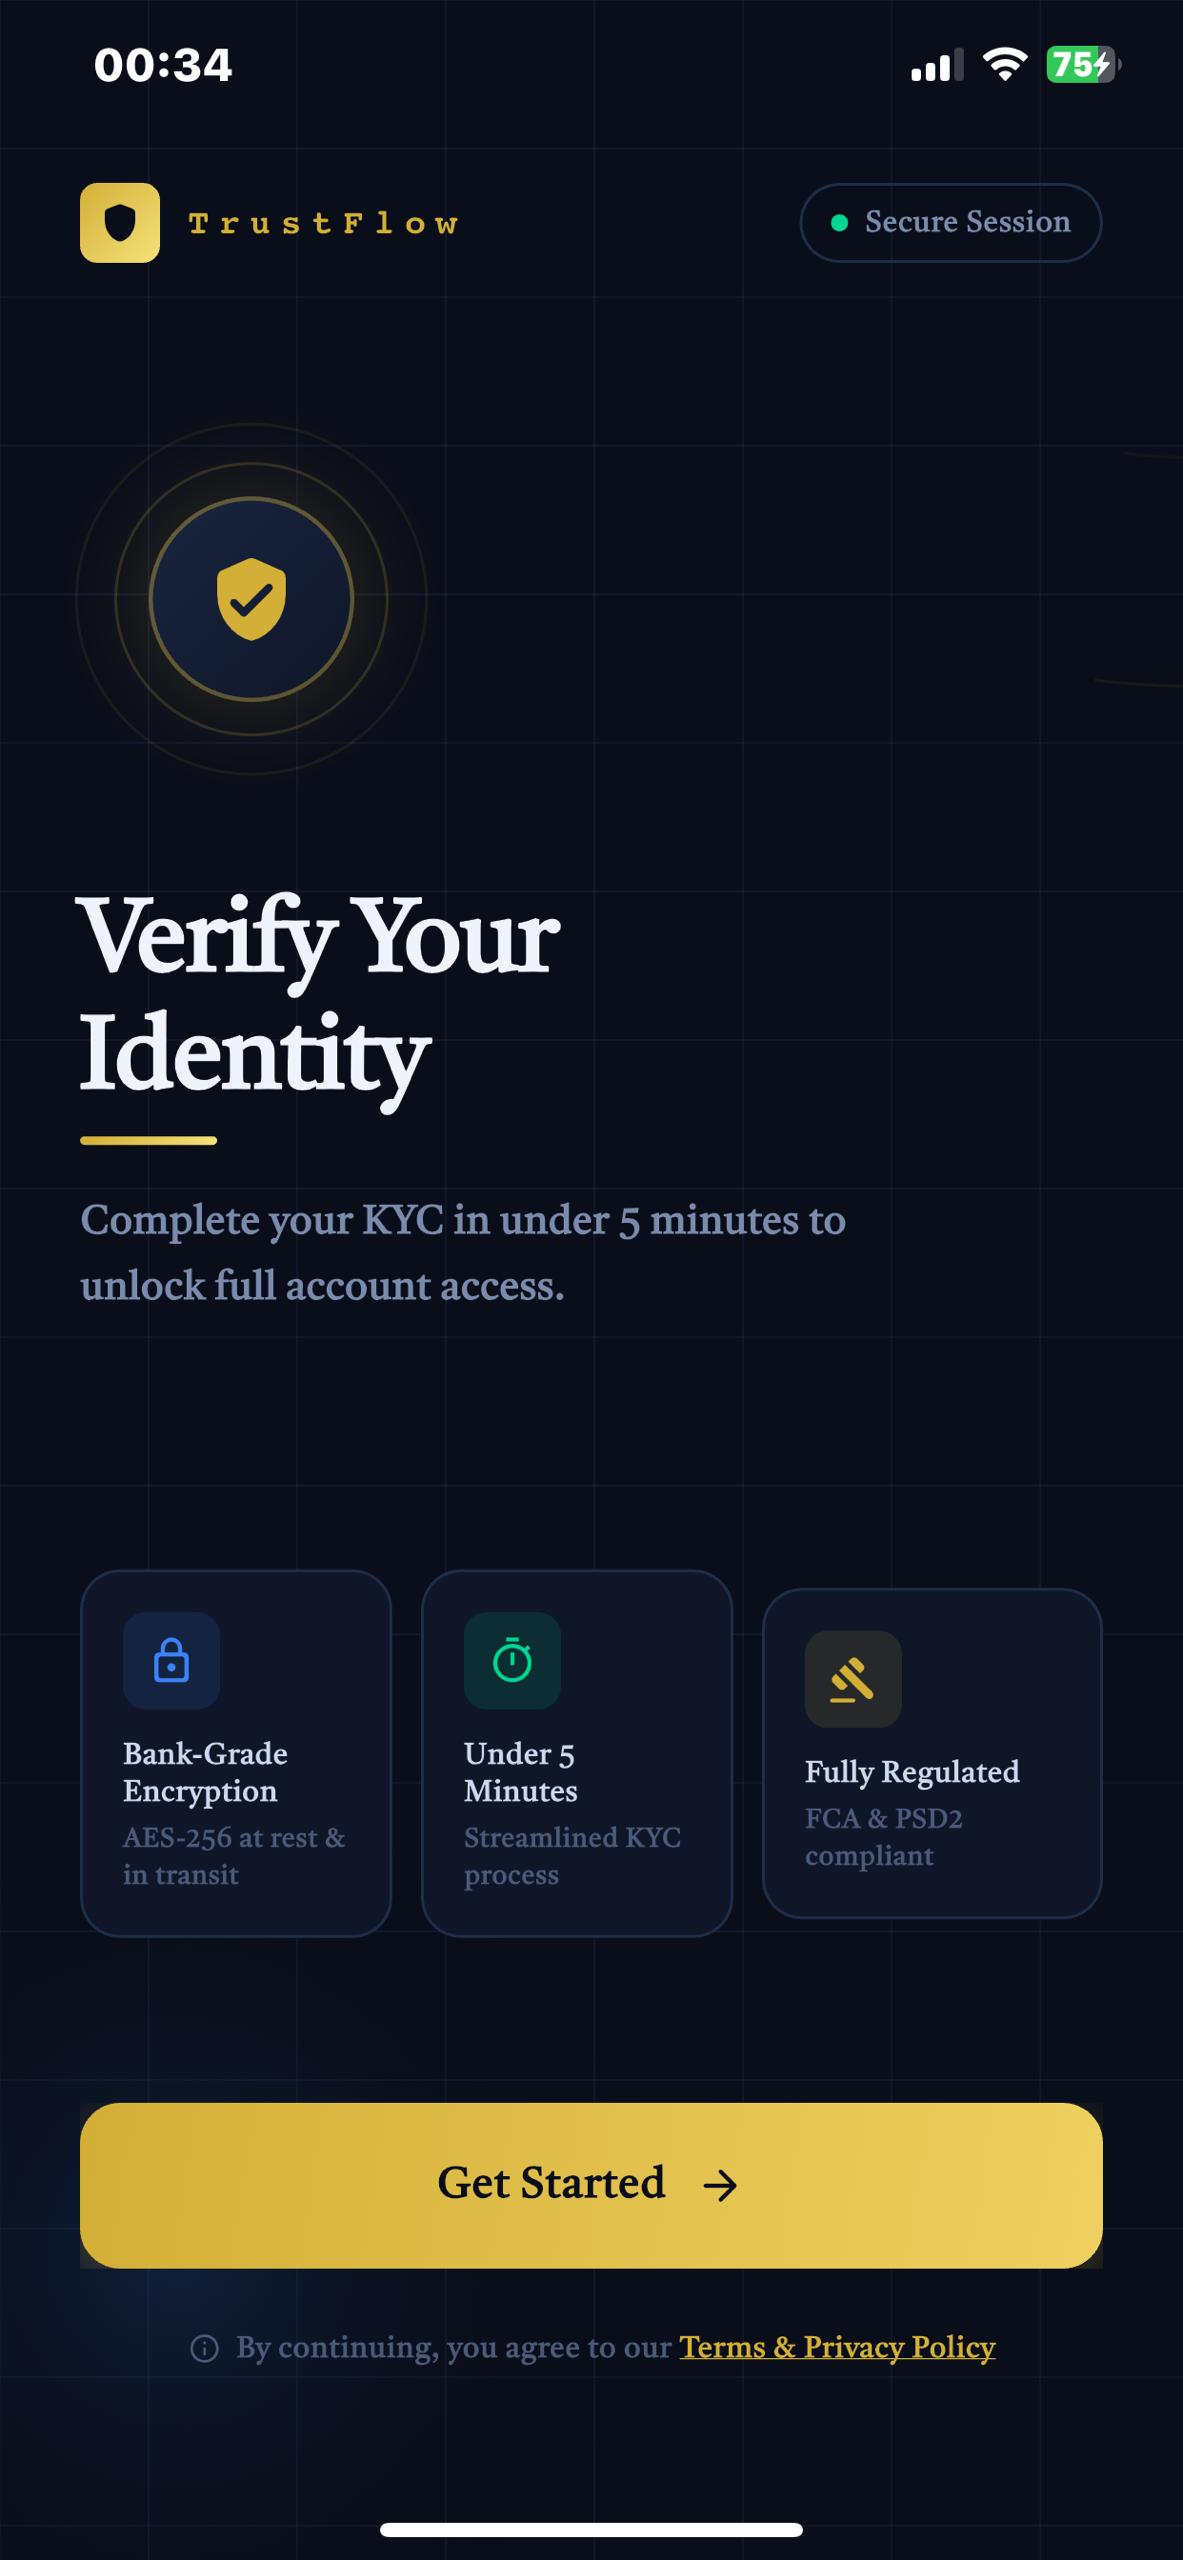
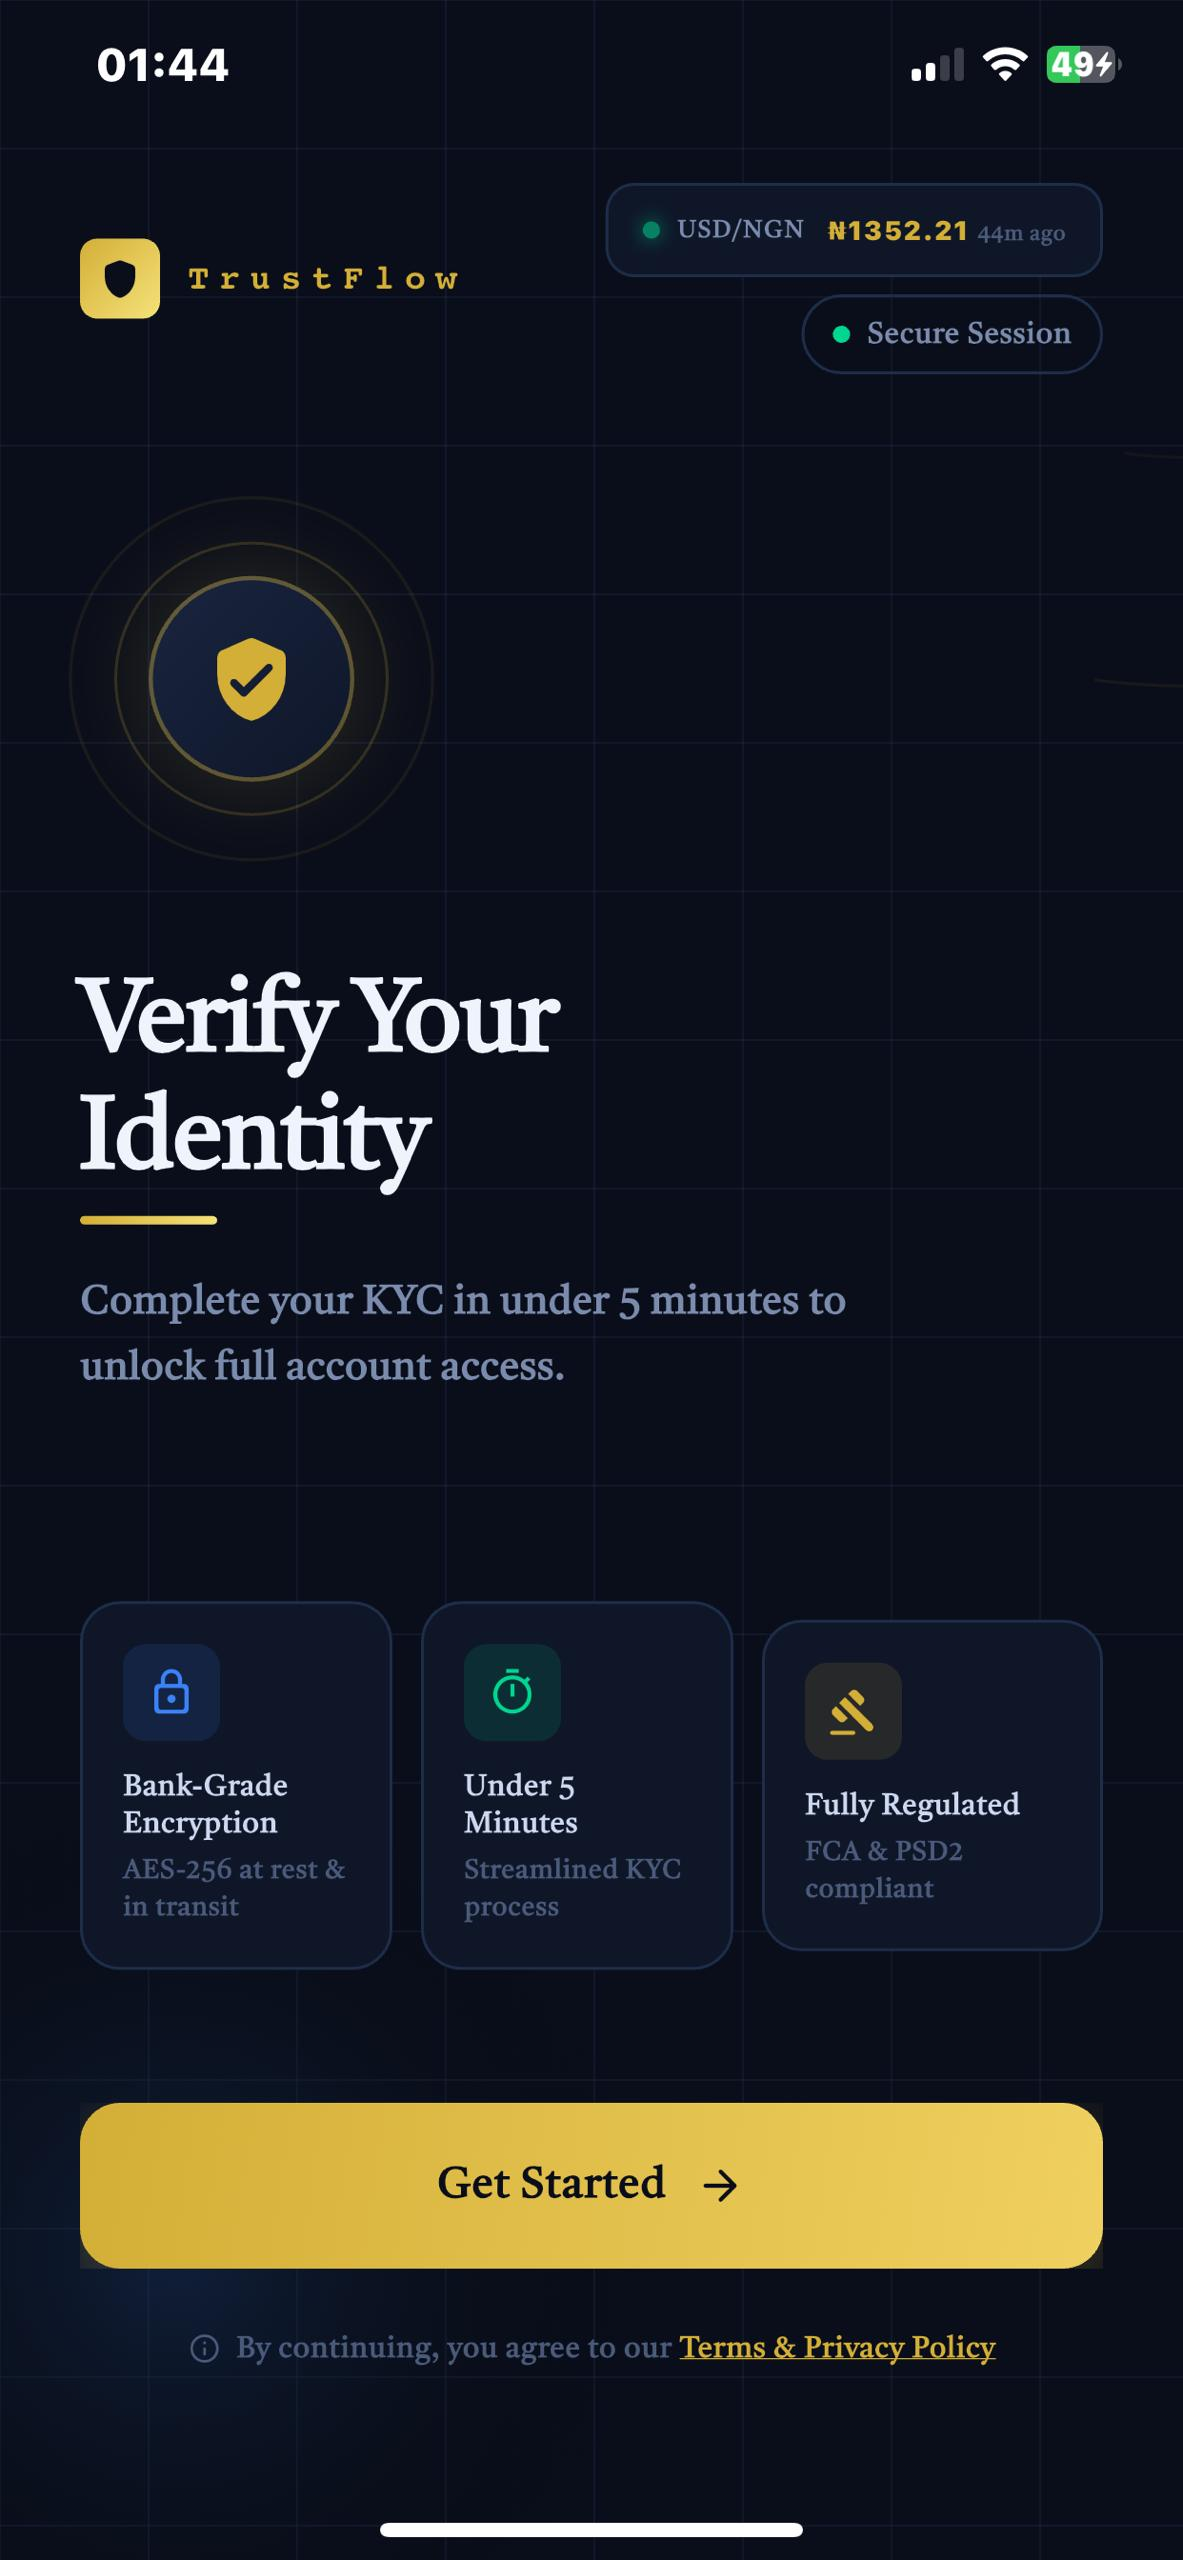
add screenshots

diff --git a/lib/features/onboarding/presentation/screens/welcome_screen.dart b/lib/features/onboarding/presentation/screens/welcome_screen.dart
@@ -89,7 +89,6 @@ class _WelcomeScreenState extends State<WelcomeScreen>
 
   void _resumeFromSavedState() {
   final state = context.read<OnboardingBloc>().state;
-  print('🔵 Restored state on launch: $state');
 
   if (state is ConsentSaved) {
     Navigator.push(context, fadeRoute(const PersonalInfoScreen()));
@@ -114,7 +113,6 @@ class _WelcomeScreenState extends State<WelcomeScreen>
 
   @override
   Widget build(BuildContext context) {
-      print('🔵 Restored state on launch: ${context.read<OnboardingBloc>().state}'); 
     return Scaffold(
       backgroundColor: const Color(0xFF0A0E1A),
       body: Stack(
@@ -197,7 +195,7 @@ Widget _buildTopBar() {
             height: 28,
             decoration: BoxDecoration(
               gradient: const LinearGradient(
-                colors: [Color(0xFFD4AF37), Color(0xFFF5E27A)],
+                colors: [AppColors.gold, Color(0xFFF5E27A)],
                 begin: Alignment.topLeft,
                 end: Alignment.bottomRight,
               ),
@@ -212,7 +210,7 @@ Widget _buildTopBar() {
               fontFamily: 'Courier',
               fontSize: 13,
               fontWeight: FontWeight.w700,
-              color: Color(0xFFD4AF37),
+              color: AppColors.gold,
               letterSpacing: 3.5,
             ),
           ),
@@ -276,7 +274,7 @@ Widget _buildTopBar() {
                 decoration: BoxDecoration(
                   shape: BoxShape.circle,
                   border: Border.all(
-                    color: const Color(0xFFD4AF37).withOpacity(0.08),
+                    color:  AppColors.gold.withOpacity(0.08),
                     width: 1,
                   ),
                 ),
@@ -289,7 +287,7 @@ Widget _buildTopBar() {
               decoration: BoxDecoration(
                 shape: BoxShape.circle,
                 border: Border.all(
-                  color: const Color(0xFFD4AF37).withOpacity(0.18),
+                  color:  AppColors.gold.withOpacity(0.18),
                   width: 1,
                 ),
               ),
@@ -306,12 +304,12 @@ Widget _buildTopBar() {
                   end: Alignment.bottomRight,
                 ),
                 border: Border.all(
-                  color: const Color(0xFFD4AF37).withOpacity(0.4),
+                  color:  AppColors.gold.withOpacity(0.4),
                   width: 1.5,
                 ),
                 boxShadow: [
                   BoxShadow(
-                    color: const Color(0xFFD4AF37).withOpacity(0.15),
+                    color:  AppColors.gold.withOpacity(0.15),
                     blurRadius: 24,
                     spreadRadius: 2,
                   ),
@@ -320,7 +318,7 @@ Widget _buildTopBar() {
               child: const Icon(
                 Icons.verified_user_rounded,
                 size: 32,
-                color: Color(0xFFD4AF37),
+                color: AppColors.gold,
               ),
             ),
           ],
@@ -353,7 +351,7 @@ Widget _buildTopBar() {
           height: 3,
           decoration: BoxDecoration(
             gradient: const LinearGradient(
-              colors: [Color(0xFFD4AF37), Color(0xFFF5E27A)],
+              colors: [AppColors.gold, Color(0xFFF5E27A)],
             ),
             borderRadius: BorderRadius.circular(2),
           ),
@@ -393,7 +391,7 @@ Widget _buildTopBar() {
         Icons.gavel_rounded,
         'Fully Regulated',
         'FCA & PSD2 compliant',
-        const Color(0xFFD4AF37),
+         AppColors.gold,
       ),
     ];
 
@@ -508,14 +506,14 @@ Widget _buildTopBar() {
             child: Ink(
               decoration: BoxDecoration(
                 gradient: const LinearGradient(
-                  colors: [Color(0xFFD4AF37), Color(0xFFF0D060)],
+                  colors: [AppColors.gold, Color(0xFFF0D060)],
                   begin: Alignment.topLeft,
                   end: Alignment.bottomRight,
                 ),
                 borderRadius: BorderRadius.circular(14),
                 boxShadow: [
                   BoxShadow(
-                    color: const Color(0xFFD4AF37).withOpacity(0.28),
+                    color:  AppColors.gold.withOpacity(0.28),
                     blurRadius: 18,
                     offset: const Offset(0, 6),
                   ),
@@ -570,9 +568,9 @@ Widget _buildTopBar() {
                 'Terms & Privacy Policy',
                 style: TextStyle(
                   fontSize: 11,
-                  color: Color(0xFFD4AF37),
+                  color: AppColors.gold,
                   decoration: TextDecoration.underline,
-                  decorationColor: Color(0xFFD4AF37),
+                  decorationColor: AppColors.gold,
                 ),
               ),
             ),
@@ -615,7 +613,7 @@ class _GeometricBackgroundPainter extends CustomPainter {
 
     // Top-right accent arc
     final arcPaint = Paint()
-      ..color = const Color(0xFFD4AF37).withOpacity(0.07)
+      ..color =  AppColors.gold.withOpacity(0.07)
       ..strokeWidth = 1
       ..style = PaintingStyle.stroke;
     canvas.drawArc(
@@ -632,7 +630,7 @@ class _GeometricBackgroundPainter extends CustomPainter {
       0.5,
       1.2,
       false,
-      arcPaint..color = const Color(0xFFD4AF37).withOpacity(0.05),
+      arcPaint..color =  AppColors.gold.withOpacity(0.05),
     );
 
     // Bottom glow blob

diff --git a/lib/features/auth/presentation/pin_entry_screen.dart b/lib/features/auth/presentation/pin_entry_screen.dart
@@ -1,5 +1,6 @@
 import 'package:flutter/material.dart';
 import 'package:flutter/services.dart';
+import 'package:trust_flow/core/constants/colors.dart';
 import 'package:trust_flow/core/di/injection_container.dart';
 import 'package:trust_flow/core/security/biometric_service.dart';
 import 'package:trust_flow/core/security/pin_service.dart';
@@ -95,7 +96,7 @@ class _PinEntryScreenState extends State<PinEntryScreen> {
                 decoration: BoxDecoration(
                   shape: BoxShape.circle,
                   border: Border.all(
-                    color: const Color(0xFFD4AF37).withOpacity(0.4),
+                    color:  AppColors.gold.withOpacity(0.4),
                     width: 1.5,
                   ),
                   color: const Color(0xFF0E1628),
@@ -103,7 +104,7 @@ class _PinEntryScreenState extends State<PinEntryScreen> {
                 child: const Icon(
                   Icons.lock_rounded,
                   size: 32,
-                  color: Color(0xFFD4AF37),
+                  color: AppColors.gold,
                 ),
               ),
 
@@ -168,7 +169,7 @@ class _PinEntryScreenState extends State<PinEntryScreen> {
                       children: [
                         Icon(
                           Icons.fingerprint_rounded,
-                          color: Color(0xFFD4AF37),
+                          color: AppColors.gold,
                           size: 22,
                         ),
                         SizedBox(width: 8),
@@ -176,7 +177,7 @@ class _PinEntryScreenState extends State<PinEntryScreen> {
                           'Use Biometrics',
                           style: TextStyle(
                             fontSize: 13,
-                            color: Color(0xFFD4AF37),
+                            color: AppColors.gold,
                           ),
                         ),
                       ],
@@ -204,10 +205,10 @@ class _PinEntryScreenState extends State<PinEntryScreen> {
           height: 16,
           decoration: BoxDecoration(
             shape: BoxShape.circle,
-            color: filled ? const Color(0xFFD4AF37) : const Color(0xFF1E2D4A),
+            color: filled ?  AppColors.gold : const Color(0xFF1E2D4A),
             border: Border.all(
               color: filled
-                  ? const Color(0xFFD4AF37)
+                  ?  AppColors.gold
                   : const Color(0xFF2E3D5A),
               width: 1.5,
             ),

diff --git a/lib/features/auth/presentation/pin_setup_screen.dart b/lib/features/auth/presentation/pin_setup_screen.dart
@@ -1,5 +1,6 @@
 import 'package:flutter/material.dart';
 import 'package:flutter/services.dart';
+import 'package:trust_flow/core/constants/colors.dart';
 import 'package:trust_flow/core/di/injection_container.dart';
 import 'package:trust_flow/core/security/pin_service.dart';
 import 'pin_entry_screen.dart';
@@ -96,7 +97,7 @@ class _PinSetupScreenState extends State<PinSetupScreen> {
                 decoration: BoxDecoration(
                   shape: BoxShape.circle,
                   border: Border.all(
-                    color: const Color(0xFFD4AF37).withOpacity(0.4),
+                    color:  AppColors.gold.withOpacity(0.4),
                     width: 1.5,
                   ),
                   color: const Color(0xFF0E1628),
@@ -104,7 +105,7 @@ class _PinSetupScreenState extends State<PinSetupScreen> {
                 child: const Icon(
                   Icons.lock_rounded,
                   size: 32,
-                  color: Color(0xFFD4AF37),
+                  color: AppColors.gold,
                 ),
               ),
 
@@ -179,11 +180,11 @@ class _PinSetupScreenState extends State<PinSetupScreen> {
           decoration: BoxDecoration(
             shape: BoxShape.circle,
             color: filled
-                ? const Color(0xFFD4AF37)
+                ?  AppColors.gold
                 : const Color(0xFF1E2D4A),
             border: Border.all(
               color: filled
-                  ? const Color(0xFFD4AF37)
+                  ?  AppColors.gold
                   : const Color(0xFF2E3D5A),
               width: 1.5,
             ),

diff --git a/lib/features/market_rates/presentation/widgets/exchange_rate_banner.dart b/lib/features/market_rates/presentation/widgets/exchange_rate_banner.dart
@@ -1,5 +1,6 @@
 import 'package:flutter/material.dart';
 import 'package:flutter_bloc/flutter_bloc.dart';
+import 'package:trust_flow/core/constants/colors.dart';
 import '../bloc/exchange_rate_bloc.dart';
 import '../bloc/exchange_rate_state.dart';
 
@@ -146,7 +147,7 @@ class _ExchangeRateBannerState extends State<ExchangeRateBanner>
         height: 12,
         child: CircularProgressIndicator(
           strokeWidth: 1.5,
-          color: Color(0xFFD4AF37),
+          color: AppColors.gold,
         ),
       );
     }
@@ -165,7 +166,7 @@ class _ExchangeRateBannerState extends State<ExchangeRateBanner>
                 style: const TextStyle(
                   fontSize: 10,
                   fontWeight: FontWeight.w700,
-                  color: Color(0xFFD4AF37),
+                  color: AppColors.gold,
                   letterSpacing: 0.3,
                   fontFamily: "serif"
                 ),

diff --git a/lib/features/onboarding/presentation/screens/face_capture_screen.dart b/lib/features/onboarding/presentation/screens/face_capture_screen.dart
@@ -91,22 +91,22 @@ class _FaceCaptureScreenState extends State<FaceCaptureScreen>
 
 @override
 void didChangeAppLifecycleState(AppLifecycleState state) {
-  print('📱 App lifecycle state: $state');
+ 
   
   final controller = _cameraController;
   
   if (state == AppLifecycleState.inactive) {
-    print('⏸ App going inactive');
+   
     controller?.stopImageStream();
   } else if (state == AppLifecycleState.paused) {
-    print('⏸ App paused');
+   
     controller?.dispose();
     setState(() {
       _cameraController = null;
       _isCameraInitialized = false;
     });
   } else if (state == AppLifecycleState.resumed) {
-    print('▶ App resumed');
+    
     // Check permission and reinitialize
     Future.delayed(const Duration(milliseconds: 300), () {
       if (mounted) {

diff --git a/lib/core/security/auth_guard.dart b/lib/core/security/auth_guard.dart
@@ -1,4 +1,5 @@
 import 'package:flutter/material.dart';
+import 'package:trust_flow/core/constants/colors.dart';
 import 'package:trust_flow/core/di/injection_container.dart';
 import 'package:trust_flow/core/security/pin_service.dart';
 import 'package:trust_flow/features/auth/presentation/pin_entry_screen.dart';
@@ -38,7 +39,7 @@ class _AuthGuardState extends State<AuthGuard> {
       return const Scaffold(
         backgroundColor: Color(0xFF0A0E1A),
         body: Center(
-          child: CircularProgressIndicator(color: Color(0xFFD4AF37)),
+          child: CircularProgressIndicator(color: AppColors.gold),
         ),
       );
     }

diff --git a/lib/features/onboarding/presentation/widgets/custom_button.dart b/lib/features/onboarding/presentation/widgets/custom_button.dart
@@ -81,7 +81,7 @@ class _PrimaryButtonState extends State<PrimaryButton>
             decoration: BoxDecoration(
               gradient: enabled
                   ? const LinearGradient(
-                      colors: [Color(0xFFD4AF37), Color(0xFFF0D060)],
+                      colors: [AppColors.gold, Color(0xFFF0D060)],
                       begin: Alignment.topLeft,
                       end: Alignment.bottomRight,
                     )
